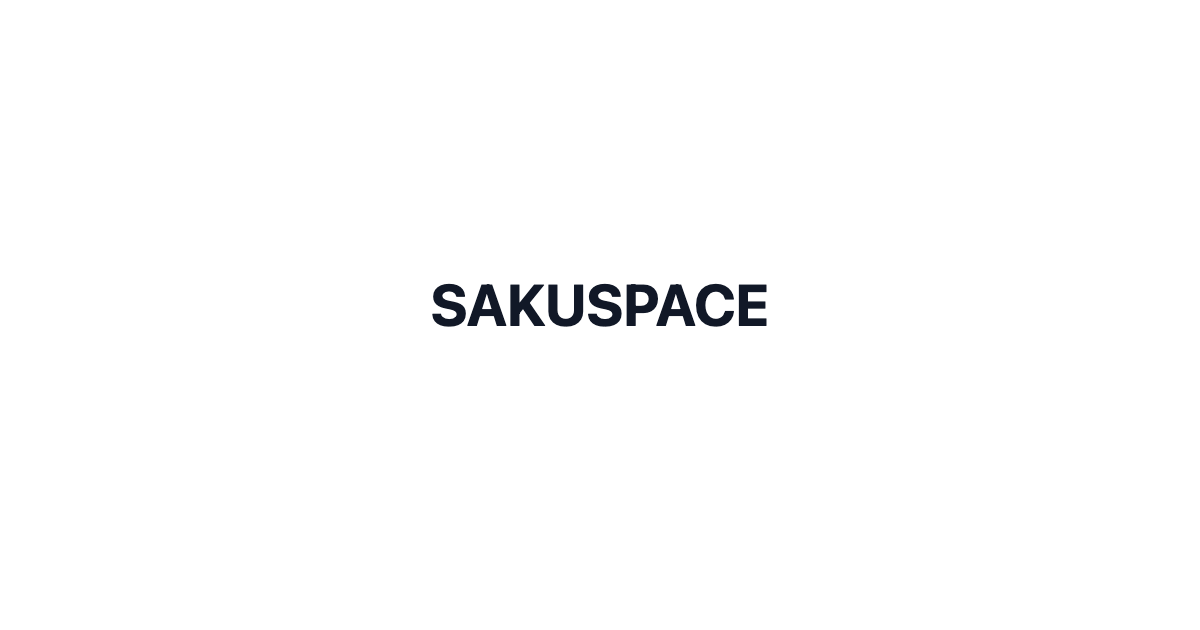
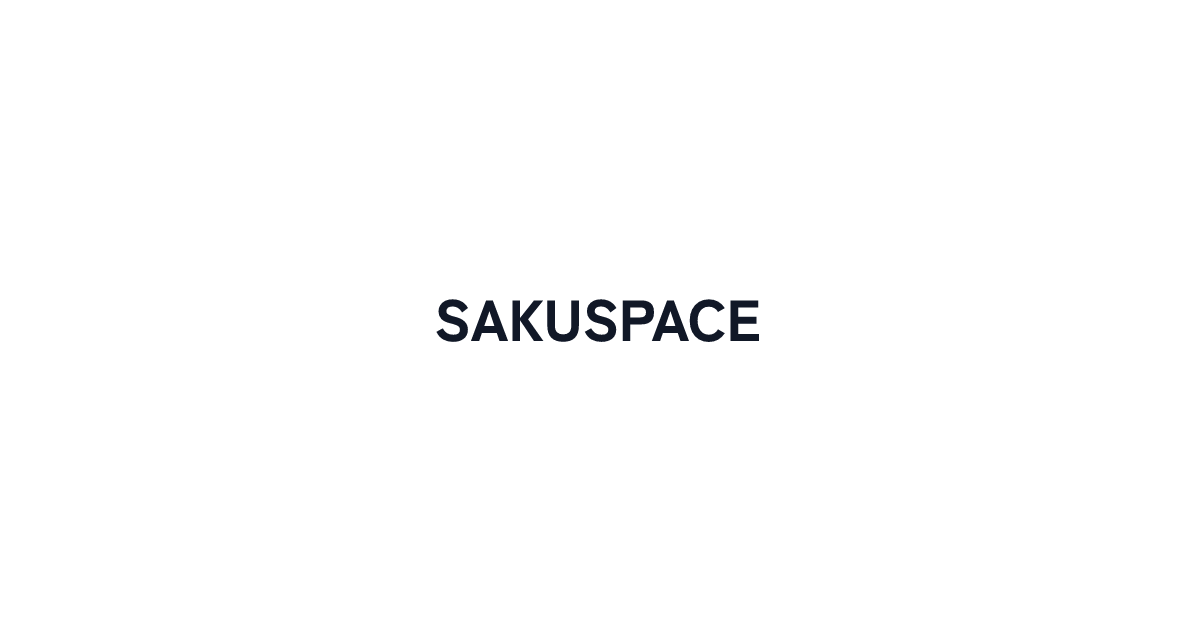
feat: add ogp preview mode and improve title rendering
- Add --preview option for testing OGP images
- Improve title normalization and flexbox layout
- Add font weight 900 (Heavy) support
- Update build order: generate OGP before Astro build
- Add push trigger to scheduled-build workflow
- Skip files starting with underscore in blog entries

🤖 Generated with [Claude Code](https://claude.com/claude-code)

Changed region(s): [[0.3392, 0.4524, 0.6475, 0.5429]]

diff --git a/scripts/build-ogp.js b/scripts/build-ogp.js
@@ -29,7 +29,7 @@ const basicPages = [
   {
     slug: 'blog-zenn',
     filename: 'blog-zenn',
-    title: 'BLOG | Zenn（Scrap含む）',
+    title: 'BLOG | Zenn',
     isBasicPage: true,
   },
   {
@@ -42,8 +42,33 @@ const basicPages = [
   { slug: 'contact', filename: 'contact', title: 'CONTACT', isBasicPage: true },
 ];
 
-function formatTitle(title) {
-  return parser.parse(title).join('\u200b');
+function normalizeTitle(title) {
+  return title.replace(/\s+/g, ' ').trim();
+}
+
+function createTitleNodes(title) {
+  const normalizedTitle = normalizeTitle(title);
+  const chunks = parser.parse(normalizedTitle);
+  return chunks.map((chunk, index) =>
+    React.createElement('span', { key: `title-chunk-${index}` }, chunk)
+  );
+}
+
+function getPreviewTarget() {
+  const previewIndex = process.argv.indexOf('--preview');
+  if (previewIndex === -1) return null;
+
+  const previewTitle = process.argv[previewIndex + 1];
+  if (!previewTitle) {
+    throw new Error('Preview title is missing. Use --preview "Title"');
+  }
+
+  return {
+    slug: 'preview',
+    filename: 'preview',
+    title: normalizeTitle(previewTitle),
+    isBasicPage: process.argv.includes('--basic'),
+  };
 }
 
 async function loadFonts() {
@@ -56,9 +81,10 @@ async function loadFonts() {
     'files'
   );
 
-  const [regular, bold] = await Promise.all([
-    readFile(path.join(fontDir, 'zen-kaku-gothic-new-japanese-400-normal.woff2')),
-    readFile(path.join(fontDir, 'zen-kaku-gothic-new-japanese-700-normal.woff2')),
+  const [regular, bold, heavy] = await Promise.all([
+    readFile(path.join(fontDir, 'zen-kaku-gothic-new-japanese-400-normal.woff')),
+    readFile(path.join(fontDir, 'zen-kaku-gothic-new-japanese-700-normal.woff')),
+    readFile(path.join(fontDir, 'zen-kaku-gothic-new-japanese-900-normal.woff')),
   ]);
 
   return [
@@ -74,11 +100,17 @@ async function loadFonts() {
       weight: 700,
       style: 'normal',
     },
+    {
+      name: 'Zen Kaku Gothic New',
+      data: heavy,
+      weight: 900,
+      style: 'normal',
+    },
   ];
 }
 
 function createOgpElement({ title, isBasicPage }) {
-  const formattedTitle = formatTitle(title);
+  const titleNodes = createTitleNodes(title);
   const baseStyle = {
     width: `${WIDTH}px`,
     height: `${HEIGHT}px`,
@@ -95,11 +127,17 @@ function createOgpElement({ title, isBasicPage }) {
 
   const titleStyle = {
     fontSize: isBasicPage ? '58px' : '48px',
-    fontWeight: 700,
+    fontWeight: 900,
     lineHeight: 1.3,
     textAlign: 'center',
     maxWidth: '80%',
-    whiteSpace: 'pre-wrap',
+    display: 'flex',
+    flexWrap: 'wrap',
+    justifyContent: 'center',
+    alignItems: 'center',
+    whiteSpace: 'normal',
+    rowGap: '0px',
+    columnGap: '0px',
   };
 
   const brandStyle = {
@@ -107,13 +145,13 @@ function createOgpElement({ title, isBasicPage }) {
     bottom: '40px',
     right: '40px',
     fontSize: '30px',
-    fontWeight: 700,
+    fontWeight: 900,
   };
 
   return React.createElement(
     'div',
     { style: baseStyle },
-    React.createElement('div', { style: titleStyle }, formattedTitle),
+    React.createElement('div', { style: titleStyle }, titleNodes),
     !isBasicPage && React.createElement('div', { style: brandStyle }, 'SAKUSPACE')
   );
 }
@@ -141,6 +179,7 @@ async function getBlogEntries() {
     for (const entry of entries) {
       if (!entry.isFile()) continue;
       if (!entry.name.endsWith('.md') && !entry.name.endsWith('.mdx')) continue;
+      if (entry.name.startsWith('_')) continue;
 
       const slug = entry.name.replace(/\.mdx?$/, '');
       const filePath = path.join(contentDir, entry.name);
@@ -168,6 +207,16 @@ async function generateOGImages() {
   await mkdir(outputDir, { recursive: true });
 
   const fonts = await loadFonts();
+  const previewTarget = getPreviewTarget();
+
+  if (previewTarget) {
+    console.log(`🧪 Preview OGPを生成しています: ${previewTarget.title}`);
+    const png = await createOgpImage(previewTarget, fonts);
+    await writeFile(path.join(outputDir, `${previewTarget.filename}.png`), png);
+    console.log(`  ✓ ${previewTarget.filename}.png を保存しました`);
+    console.log('🎉 Preview OGPの生成が完了しました!');
+    return;
+  }
   const blogEntries = await getBlogEntries();
   const targets = [...basicPages, ...blogEntries];
 

diff --git a/environment.md b/environment.md
@@ -29,6 +29,11 @@
 │   │   ├── icon_zenn-dark.svg
 │   │   └── icon_zenn-light.svg
 │   ├── ogp
+│   │   ├── _what-is-my-tech-stack.png
+│   │   ├── astro-docs-translation-beginner.png
+│   │   ├── blog-personal.png
+│   │   ├── blog-qiita.png
+│   │   ├── blog-zenn.png
 │   │   ├── blog.png
 │   │   ├── contact.png
 │   │   ├── default.png
@@ -62,6 +67,7 @@
 │   ├── lib
 │   │   ├── api-clients
 │   │   ├── blog
+│   │   ├── rehype
 │   │   └── utils
 │   ├── pages
 │   │   ├── api
@@ -84,9 +90,10 @@
 ├── README.md
 ├── todo.md
 ├── tsconfig.json
-└── uno.config.ts
+├── uno.config.ts
+└── スクリーンショット 2026-01-06 0.10.26.jpg
 
-34 directories, 46 files
+35 directories, 52 files
 
 ```
 
